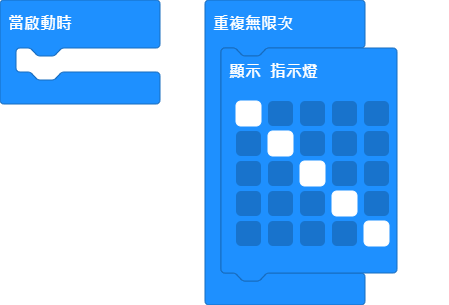
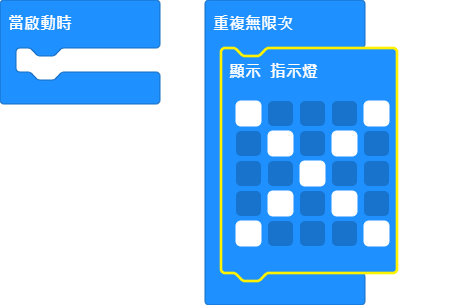
更新 main.blocks, main.ts

Changed region(s): [[0.4677, 0.1475, 0.9042, 0.9443], [0.7171, 0.4131, 0.8107, 0.5311], [0.5924, 0.6197, 0.6548, 0.7082]]

diff --git a/main.ts b/main.ts
@@ -1,9 +1,9 @@
 basic.forever(function () {
     basic.showLeds(`
-        # . . . .
-        . # . . .
+        # . . . #
+        . # . # .
         . . # . .
-        . . . # .
-        . . . . #
+        . # . # .
+        # . . . #
         `)
 })
